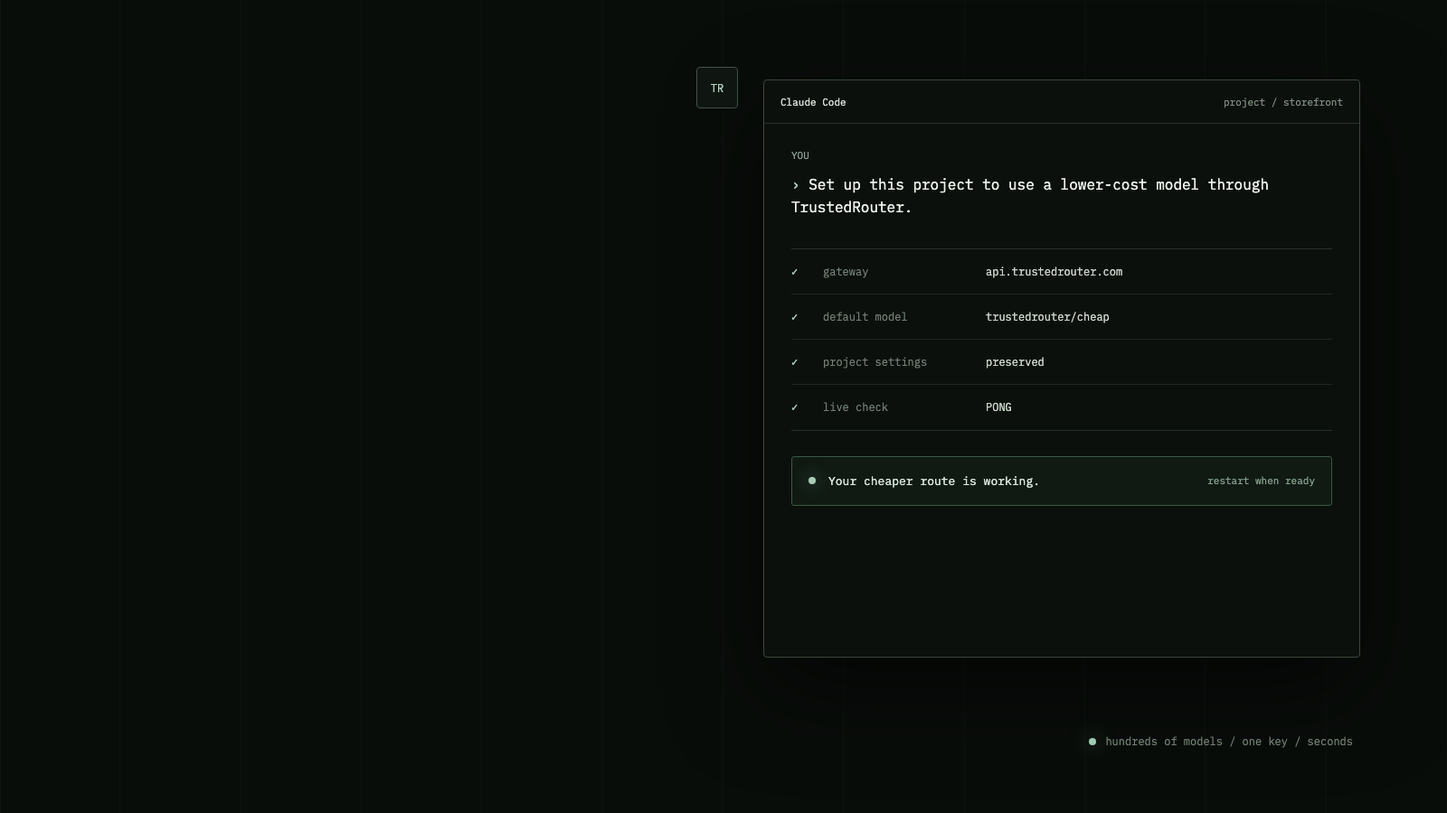
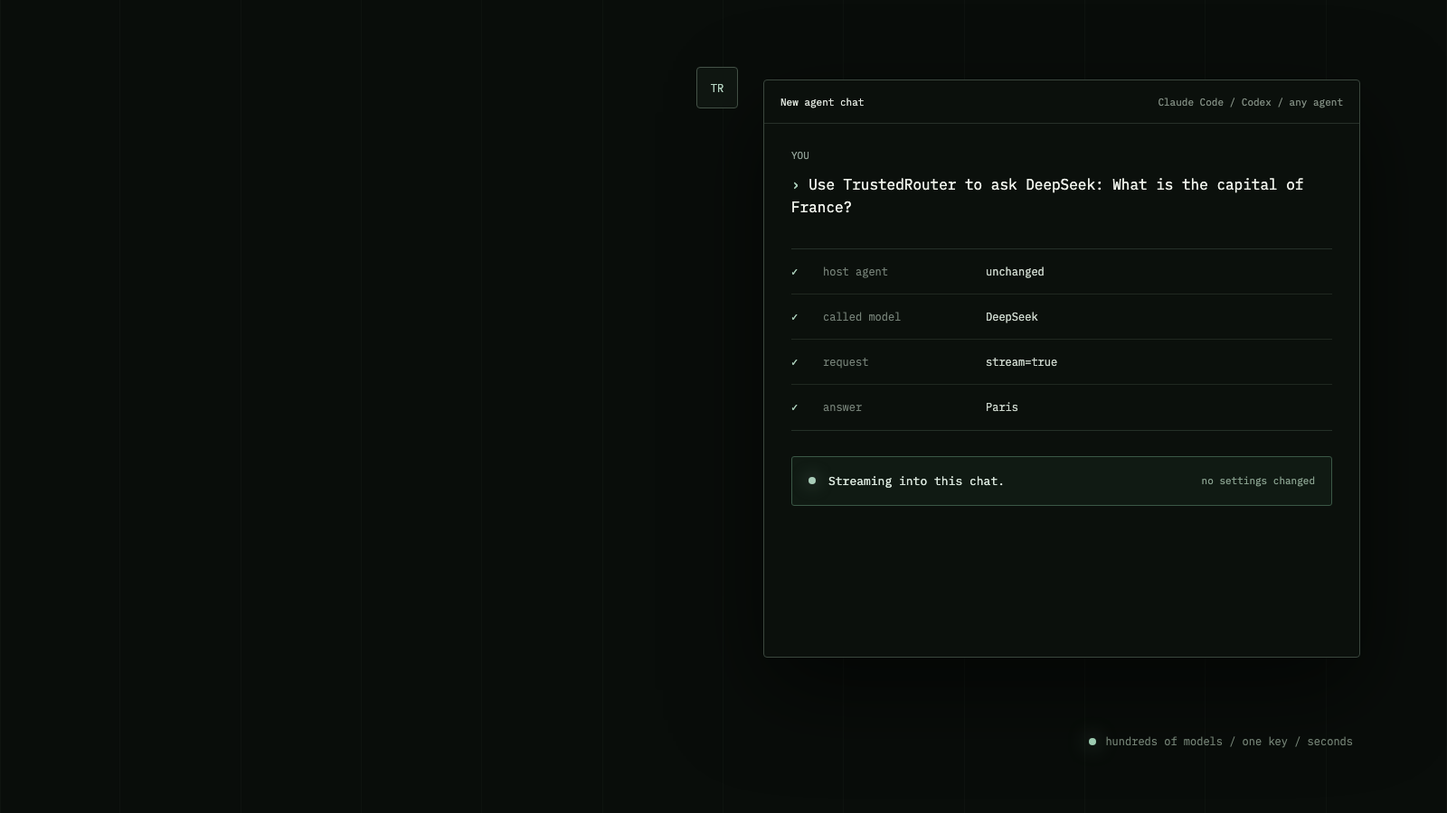
Keep agent onboarding chat native

diff --git a/src/trusted_router/templates/public/claude_code.html b/src/trusted_router/templates/public/claude_code.html
@@ -11,7 +11,7 @@
     <div class="cc-hero-copy">
       <div class="kicker">For vibe coders</div>
       <h1 id="cc-hero-title">Cut your Claude Code token bill in 10 seconds.</h1>
-      <p class="cc-hero-lead">Paste one message. Claude Code connects your next session to lower-cost models through TrustedRouter. Keep the interface, tools, permissions, and workflow you already know.</p>
+      <p class="cc-hero-lead">Open a new Claude Code, Codex, or agent chat. Paste one complete message. Your agent calls a lower-cost model through TrustedRouter and streams the answer back into the same chat. Nothing is installed. No settings change.</p>
       <div class="hero-actions">
         <button class="btn primary cc-primary-cta" type="button" data-action="open-signin">Create my paste-ready key</button>
         <a class="btn ghost" href="#ten-second-flow">See the 10-second flow <span aria-hidden="true">&#8595;</span></a>
@@ -29,17 +29,17 @@
 
 {% block body %}
 <section class="cc-proof-band" aria-label="What stays the same">
-  <div><strong>Keep Claude Code</strong><span>Same terminal, tools, permissions, and project context.</span></div>
-  <div><strong>Choose the model</strong><span>Use a cheap route for routine work and a smarter route when it matters.</span></div>
+  <div><strong>Keep your agent</strong><span>Same chat, tools, permissions, model, and project context.</span></div>
+  <div><strong>Delegate one task</strong><span>Call another model without replacing or reconfiguring your agent.</span></div>
+  <div><strong>Watch it stream</strong><span>The answer appears in your chat as the model generates it.</span></div>
   <div><strong>See exact cost</strong><span>Every completed request records integer-priced usage metadata.</span></div>
-  <div><strong>Keep content private</strong><span>No prompt or output logs, always.</span></div>
 </section>
 
 <section class="cc-section cc-flow" id="ten-second-flow" aria-labelledby="cc-flow-title">
   <div class="cc-section-heading">
     <span class="eyebrow">One message</span>
-    <h2 id="cc-flow-title">Claude Code does the setup.</h2>
-    <p>The old way starts with docs, environment variables, and a model catalog. This starts with one instruction your agent can execute.</p>
+    <h2 id="cc-flow-title">Your agent makes the call.</h2>
+    <p>No environment variables, settings files, installation, or restart. The pasted message asks your existing agent to make one streamed TrustedRouter request.</p>
   </div>
   <ol class="cc-steps">
     <li>
@@ -48,11 +48,11 @@
     </li>
     <li>
       <span class="cc-step-number">02</span>
-      <div><h3>Copy one complete message</h3><p>The real message contains your full key, gateway URL, low-cost model, safety instructions, and smoke test.</p></div>
+      <div><h3>Open a new agent chat</h3><p>Use Claude Code, Codex, or the agent you already prefer. Its model and settings stay exactly as they are.</p></div>
     </li>
     <li>
       <span class="cc-step-number">03</span>
-      <div><h3>Paste, then restart</h3><p>Claude Code prepares project-local settings, verifies the route, and tells you when your cheaper next session is ready.</p></div>
+      <div><h3>Paste and watch it stream</h3><p>Your agent calls DeepSeek through TrustedRouter and writes the answer into the same chat as each text delta arrives.</p></div>
     </li>
   </ol>
 </section>
@@ -62,24 +62,24 @@
     <span class="eyebrow">What you paste</span>
     <h2 id="cc-paste-title">No placeholders. No scavenger hunt.</h2>
     <p>After signup, TrustedRouter builds this message with your complete key already inside it. You copy the whole thing once.</p>
-    <p>Claude Code uses its documented LLM gateway settings. It preserves existing project settings, keeps the key out of committed files, and verifies the new route before asking you to restart.</p>
+    <p>This is a request, not a configuration prompt. It explicitly tells your agent to leave its model, provider, settings, and project files alone, make one call with <code>stream=true</code>, and show the result in the chat as it arrives.</p>
     <div class="hero-actions">
       <button class="btn primary cc-primary-cta" type="button" data-action="open-signin">Create my paste-ready key</button>
-      <a class="btn ghost" href="https://docs.anthropic.com/en/docs/claude-code/llm-gateway" target="_blank" rel="noopener">Anthropic gateway docs <span aria-hidden="true">&#8599;</span></a>
+      <a class="btn ghost" href="/models">Browse models <span aria-hidden="true">&#8594;</span></a>
     </div>
   </div>
   <div class="cc-prompt-tool" aria-label="Preview of the paste-ready Claude Code message">
-    <div class="cc-prompt-head"><span>CLAUDE CODE</span><span>ONE PASTE SETUP</span></div>
+    <div class="cc-prompt-head"><span>ANY AGENT</span><span>ONE PASTE REQUEST</span></div>
     <div class="cc-prompt-body">
-      <p>Set up this project so my next Claude Code session uses TrustedRouter with a lower-cost default model.</p>
+      <p>Please use TrustedRouter to ask DeepSeek: "What is the capital of France?"</p>
       <dl>
-        <div><dt>Gateway</dt><dd>api.trustedrouter.com</dd></div>
-        <div><dt>Main model</dt><dd>trustedrouter/cheap</dd></div>
-        <div><dt>Fast model</dt><dd>trustedrouter/cheap</dd></div>
+        <div><dt>Host agent</dt><dd>unchanged</dd></div>
+        <div><dt>Called model</dt><dd>DeepSeek</dd></div>
+        <div><dt>Response</dt><dd>stream=true</dd></div>
         <div><dt>API key</dt><dd><span class="cc-key-inserted">your complete key is inserted</span></dd></div>
       </dl>
-      <p class="cc-prompt-command"><span aria-hidden="true">&#8250;</span> Preserve settings. Keep secrets out of git. Run PONG. Tell me when to restart.</p>
-      <div class="cc-prompt-result"><span class="cc-live-dot" aria-hidden="true"></span><strong>READY</strong><span>Cheaper route verified</span></div>
+      <p class="cc-prompt-command"><span aria-hidden="true">&#8250;</span> Do not change my settings. Stream the answer into this chat.</p>
+      <div class="cc-prompt-result"><span class="cc-live-dot" aria-hidden="true"></span><strong>STREAMING</strong><span>Paris</span></div>
     </div>
   </div>
 </section>
@@ -88,7 +88,7 @@
   <div class="cc-section-heading">
     <span class="eyebrow">Get a superpower</span>
     <h2 id="cc-model-title">Every model. In seconds.</h2>
-    <p>One key can route work across hundreds of open and frontier models. A routine rename and a hard architecture review do not need the same model. Change one model name, not your setup.</p>
+    <p>One key can call hundreds of open and frontier models from the agent chat you already use. A routine rename and a hard architecture review do not need the same model. Name a different model in your next request, not in your agent settings.</p>
   </div>
   <div class="cc-route-list" role="list">
     <a href="/models/trustedrouter/cheap" role="listitem"><code>trustedrouter/cheap</code><span>Low-cost default for routine coding turns.</span><strong>START HERE</strong></a>
@@ -102,20 +102,20 @@
   <div class="cc-moment-mark" aria-hidden="true">10s</div>
   <div>
     <span class="eyebrow">The whole product moment</span>
-    <h2 id="cc-moment-title">Paste. Watch it connect. Smile.</h2>
-    <p>We watched a developer do exactly this. One message went into Claude Code, a cheaper model answered through the same workflow, and the setup disappeared as a problem. That reaction is the page.</p>
+    <h2 id="cc-moment-title">Paste. Watch the answer stream. Smile.</h2>
+    <p>We watched a developer do exactly this. One message went into an agent chat, a cheaper model answered inside that same chat, and setup disappeared as a problem. That reaction is the page.</p>
   </div>
 </section>
 
 <section class="cc-final" aria-label="Create a paste-ready TrustedRouter key">
   <div>
-    <span class="eyebrow">Your next Claude Code session</span>
-    <h2>Spend less on routine work.</h2>
-    <p>One complete message. One restart. Hundreds of models when you need them.</p>
+    <span class="eyebrow">Your next agent chat</span>
+    <h2>Delegate the expensive part.</h2>
+    <p>One complete message. No restart. Hundreds of models when you need them.</p>
   </div>
   <div class="cc-final-action">
     <button class="btn primary cc-primary-cta" type="button" data-action="open-signin">Create my paste-ready key</button>
-    <span>No subscription. Remove the project settings whenever you want.</span>
+    <span>No installation. No settings changed.</span>
   </div>
 </section>
 {% endblock %}

diff --git a/tests/browser/dashboard.spec.js b/tests/browser/dashboard.spec.js
@@ -178,11 +178,12 @@ test("new API key quickstart stays inside its reveal panel", async ({ page }) =>
                     <div class="panel-body">
                       <div class="signup-reveal console-key-reveal">
                         <section class="agent-quickstart">
-                          <h3>Paste this whole message into your agent or Claude Code to try it out right now:</h3>
+                          <h3>Open a new Claude Code, Codex, or agent chat. Then paste this whole message:</h3>
                           <div class="agent-message-row">
                             <div class="agent-message" id="layout-agent-message" data-copy-lines>
-                            <span class="agent-prompt-line">Set up this project so my next Claude Code session uses TrustedRouter with a lower-cost default model.</span>
-                            <span class="agent-prompt-line">Use ANTHROPIC_BASE_URL=https://api.trustedrouter.com and ANTHROPIC_MODEL=trustedrouter/cheap. Preserve existing settings and keep the key out of git.</span>
+                            <span class="agent-prompt-line">This message is designed to be pasted into a new Claude Code, Codex, or other agent chat.</span>
+                            <span class="agent-prompt-line">Please use TrustedRouter.com using the following key to ask DeepSeek a question.</span>
+                            <span class="agent-prompt-line">Make the request with streaming enabled (stream=true). Show each text delta in this chat as it arrives. Do not change this agent's settings.</span>
                             <span class="agent-prompt-line">TrustedRouter API key: sk-tr-v1-layout-regression-key</span>
                             </div>
                             <button class="btn secret-copy-btn" type="button" data-copy-secret="layout-agent-message" aria-label="Copy complete agent message">Copy</button>
@@ -204,7 +205,8 @@ test("new API key quickstart stays inside its reveal panel", async ({ page }) =>
   const heading = reveal.locator(".agent-quickstart h3");
   const message = reveal.locator(".agent-message");
   await expect(heading).toBeVisible();
-  await expect(message).toContainText("ANTHROPIC_MODEL=trustedrouter/cheap");
+  await expect(message).toContainText("stream=true");
+  await expect(message).toContainText("Do not change this agent's settings");
 
   const assertContained = async () => {
     const layout = await reveal.evaluate((element) => {
@@ -239,12 +241,14 @@ test("new API key quickstart stays inside its reveal panel", async ({ page }) =>
   await expect(copyButton).toBeVisible();
   await copyButton.click();
   const copiedAgentMessage = await page.evaluate(() => navigator.clipboard.readText());
-  expect(copiedAgentMessage).toContain("ANTHROPIC_BASE_URL=https://api.trustedrouter.com");
-  expect(copiedAgentMessage).toContain("ANTHROPIC_MODEL=trustedrouter/cheap");
+  expect(copiedAgentMessage).toContain("new Claude Code, Codex, or other agent chat");
+  expect(copiedAgentMessage).toContain("stream=true");
+  expect(copiedAgentMessage).toContain("Show each text delta in this chat as it arrives");
+  expect(copiedAgentMessage).not.toContain("ANTHROPIC_BASE_URL");
   expect(copiedAgentMessage).toContain("sk-tr-v1-layout-regression-key");
 });
 
-test("first-call activation runs live request and copies Claude Code setup", async ({ page }) => {
+test("first-call activation runs live request and copies agent chat prompt", async ({ page }) => {
   const apiKey = "sk-tr-v1-browser-activation-key";
   const analytics = [];
   await page.addInitScript(() => {
@@ -304,7 +308,7 @@ test("first-call activation runs live request and copies Claude Code setup", asy
               <div class="activation-call-error" data-call-error hidden><strong data-call-error-title></strong><p data-call-error-message></p><a data-call-error-action hidden></a></div>
               <div class="activation-call-result" data-call-result hidden><div class="activation-result-head"><div><span class="activation-success-mark">&#10003;</span><div><strong>Production request passed</strong><p>Your key is ready.</p></div></div><code data-result-output></code></div><dl class="activation-result-grid"><div><dt>Model</dt><dd data-result-model></dd></div><div><dt>Provider</dt><dd data-result-provider></dd></div><div><dt>Latency</dt><dd data-result-latency></dd></div><div><dt>Exact cost</dt><dd data-result-cost></dd></div></dl><div data-success-actions></div></div>
             </div></section>
-            <section class="panel activation-setup-panel"><div class="panel-body"><div class="activation-tabs" role="tablist"><button class="activation-tab" role="tab" aria-selected="true" data-setup-tab="setup-agent">Claude Code / Codex</button><button class="activation-tab" role="tab" aria-selected="false" data-setup-tab="setup-python">Python</button></div><div class="activation-code-panel" id="setup-agent" data-setup-panel><div class="activation-code-head"><strong>Paste this whole message</strong><button class="btn" data-copy-template-target="welcome-agent-message" data-secret-source="welcome-api-key">Copy prompt</button></div><pre id="welcome-agent-message" data-copy-lines><span>Please use TrustedRouter.com to ask DeepSeek a question.</span><span>${apiKey}</span></pre></div><div class="activation-code-panel" id="setup-python" data-setup-panel hidden><pre>Python setup</pre></div></div></section>
+            <section class="panel activation-setup-panel"><div class="panel-body"><div class="activation-tabs" role="tablist"><button class="activation-tab" role="tab" aria-selected="true" data-setup-tab="setup-agent">Claude Code / Codex / agent</button><button class="activation-tab" role="tab" aria-selected="false" data-setup-tab="setup-python">Python</button></div><div class="activation-code-panel" id="setup-agent" data-setup-panel><div class="activation-code-head"><strong>Paste into a new agent chat</strong><button class="btn" data-copy-template-target="welcome-agent-message" data-secret-source="welcome-api-key">Copy prompt</button></div><pre id="welcome-agent-message" data-copy-lines><span>This message is designed to be pasted into a new Claude Code, Codex, or other agent chat.</span><span>Please use TrustedRouter.com to ask DeepSeek a question.</span><span>Make the request with streaming enabled (stream=true). Show each text delta in this chat as it arrives. Do not change this agent's settings.</span><span>TrustedRouter API key: ${apiKey}</span></pre></div><div class="activation-code-panel" id="setup-python" data-setup-panel hidden><pre>Python setup</pre></div></div></section>
           </div>
         </div></main></body></html>`,
     });
@@ -328,7 +332,7 @@ test("first-call activation runs live request and copies Claude Code setup", asy
 
   await page.getByRole("button", { name: "Copy prompt" }).click();
   await expect.poll(() => page.evaluate(() => navigator.clipboard.readText())).toBe(
-    `Please use TrustedRouter.com to ask DeepSeek a question.\n\n${apiKey}`,
+    `This message is designed to be pasted into a new Claude Code, Codex, or other agent chat.\n\nPlease use TrustedRouter.com to ask DeepSeek a question.\n\nMake the request with streaming enabled (stream=true). Show each text delta in this chat as it arrives. Do not change this agent's settings.\n\nTrustedRouter API key: ${apiKey}`,
   );
   await page.getByRole("tab", { name: "Python" }).click();
   await expect(page.locator("#setup-python")).toBeVisible();

diff --git a/docs/marketing/claude-code-hero.html b/docs/marketing/claude-code-hero.html
@@ -204,22 +204,22 @@
   </div>
   <div class="brand-mark">TR</div>
   <div class="og-copy">
-    <span>TrustedRouter for Claude Code</span>
+    <span>TrustedRouter for your favorite agent</span>
     <h1>Cut your token bill in 10 seconds.</h1>
-    <p>One complete message connects your next session to hundreds of lower-cost models.</p>
+    <p>Paste once. Your agent calls another model and streams the answer back into the same chat.</p>
   </div>
   <div class="terminal">
-    <div class="terminal-head"><strong>Claude Code</strong><span>project / storefront</span></div>
+    <div class="terminal-head"><strong>New agent chat</strong><span>Claude Code / Codex / any agent</span></div>
     <div class="terminal-body">
       <div class="prompt-label">YOU</div>
-      <p class="prompt"><span class="cursor">&#8250;</span> Set up this project to use a lower-cost model through TrustedRouter.</p>
+      <p class="prompt"><span class="cursor">&#8250;</span> Use TrustedRouter to ask DeepSeek: What is the capital of France?</p>
       <div class="activity">
-        <div class="row"><span class="check">&#10003;</span><span class="label">gateway</span><span class="value">api.trustedrouter.com</span></div>
-        <div class="row"><span class="check">&#10003;</span><span class="label">default model</span><span class="value">trustedrouter/cheap</span></div>
-        <div class="row"><span class="check">&#10003;</span><span class="label">project settings</span><span class="value">preserved</span></div>
-        <div class="row"><span class="check">&#10003;</span><span class="label">live check</span><span class="value">PONG</span></div>
+        <div class="row"><span class="check">&#10003;</span><span class="label">host agent</span><span class="value">unchanged</span></div>
+        <div class="row"><span class="check">&#10003;</span><span class="label">called model</span><span class="value">DeepSeek</span></div>
+        <div class="row"><span class="check">&#10003;</span><span class="label">request</span><span class="value">stream=true</span></div>
+        <div class="row"><span class="check">&#10003;</span><span class="label">answer</span><span class="value">Paris</span></div>
       </div>
-      <div class="ready"><i></i><strong>Your cheaper route is working.</strong><span>restart when ready</span></div>
+      <div class="ready"><i></i><strong>Streaming into this chat.</strong><span>no settings changed</span></div>
     </div>
   </div>
   <div class="signal"><i></i><span>hundreds of models / one key / seconds</span></div>

diff --git a/src/trusted_router/templates/console/welcome.html b/src/trusted_router/templates/console/welcome.html
@@ -1,5 +1,5 @@
 {% extends "console/_layout.html" %}
-{% from "console/_api_key_reveal.html" import api_key_reveal, claude_code_prompt %}
+{% from "console/_api_key_reveal.html" import agent_chat_prompt, api_key_reveal %}
 {% block body %}
 {% if revealed_key %}
 <div
@@ -96,15 +96,15 @@
     </div>
     <div class="panel-body">
       <div class="activation-tabs" role="tablist" aria-label="Setup method">
-        <button class="activation-tab" id="setup-agent-tab" type="button" role="tab" aria-selected="true" aria-controls="setup-agent" data-setup-tab="setup-agent">Claude Code / Codex</button>
+        <button class="activation-tab" id="setup-agent-tab" type="button" role="tab" aria-selected="true" aria-controls="setup-agent" data-setup-tab="setup-agent">Claude Code / Codex / agent</button>
         <button class="activation-tab" id="setup-python-tab" type="button" role="tab" aria-selected="false" aria-controls="setup-python" tabindex="-1" data-setup-tab="setup-python">Python</button>
         <button class="activation-tab" id="setup-js-tab" type="button" role="tab" aria-selected="false" aria-controls="setup-js" tabindex="-1" data-setup-tab="setup-js">JavaScript</button>
         <button class="activation-tab" id="setup-curl-tab" type="button" role="tab" aria-selected="false" aria-controls="setup-curl" tabindex="-1" data-setup-tab="setup-curl">curl</button>
       </div>
 
       <div class="activation-code-panel" id="setup-agent" role="tabpanel" aria-labelledby="setup-agent-tab" data-setup-panel>
-        <div class="activation-code-head"><strong>Paste this whole message into Claude Code or Codex</strong><button class="btn" type="button" data-copy-template-target="welcome-agent-message" data-secret-source="welcome-api-key" aria-describedby="welcome-agent-copy-status">Copy prompt</button></div>
-        <pre id="welcome-agent-message" data-copy-lines>{{ claude_code_prompt(revealed_key) }}</pre>
+        <div class="activation-code-head"><strong>Paste into a new Claude Code, Codex, or agent chat</strong><button class="btn" type="button" data-copy-template-target="welcome-agent-message" data-secret-source="welcome-api-key" aria-describedby="welcome-agent-copy-status">Copy prompt</button></div>
+        <pre id="welcome-agent-message" data-copy-lines>{{ agent_chat_prompt(revealed_key) }}</pre>
         <p class="copy-status" id="welcome-agent-copy-status" role="status" aria-live="polite"></p>
       </div>
 

diff --git a/src/trusted_router/templates/console/_api_key_reveal.html b/src/trusted_router/templates/console/_api_key_reveal.html
@@ -1,6 +1,7 @@
-{% macro claude_code_prompt(raw_key) -%}
-<span class="agent-prompt-line">Set up this project so my next Claude Code session uses TrustedRouter with a lower-cost default model. Keep this current session working while you prepare the change.</span>
-<span class="agent-prompt-line">Use ANTHROPIC_BASE_URL=https://api.trustedrouter.com, ANTHROPIC_AUTH_TOKEN with the key below, ANTHROPIC_MODEL=trustedrouter/cheap, and ANTHROPIC_SMALL_FAST_MODEL=trustedrouter/cheap. Put the configuration in .claude/settings.local.json. If that file already exists, preserve every other setting. Verify the file is ignored by git, run a tiny PONG request through TrustedRouter, and tell me when to restart Claude Code. Do not print, commit, or copy the key anywhere else.</span>
+{% macro agent_chat_prompt(raw_key) -%}
+<span class="agent-prompt-line">This message is designed to be pasted into a new Claude Code, Codex, or other agent chat.</span>
+<span class="agent-prompt-line">Please use TrustedRouter.com using the following key to ask DeepSeek the following question: "What is the capital of France?"</span>
+<span class="agent-prompt-line">Make the request through https://api.trustedrouter.com/v1 with streaming enabled (stream=true). Show each text delta in this chat as it arrives instead of buffering the full answer. Do not change this agent's model, provider, settings, or project files. Do not save, print, commit, or reveal the key.</span>
 <span class="agent-prompt-line">TrustedRouter API key: {{ raw_key }}</span>
 {%- endmacro %}
 
@@ -26,10 +27,10 @@
 
   {% if show_agent %}
   <section class="agent-quickstart" aria-labelledby="{{ id_prefix }}-agent-heading">
-    <h3 id="{{ id_prefix }}-agent-heading">Paste this whole message into your agent or Claude Code to try it out right now:</h3>
+    <h3 id="{{ id_prefix }}-agent-heading">Open a new Claude Code, Codex, or agent chat. Then paste this whole message:</h3>
     <div class="agent-message-row">
       <div class="agent-message" id="{{ id_prefix }}-agent-message" data-copy-lines>
-        {{ claude_code_prompt(raw_key) }}
+        {{ agent_chat_prompt(raw_key) }}
       </div>
       <button
         class="btn secret-copy-btn"

diff --git a/tests/browser/claude_code_landing.spec.js b/tests/browser/claude_code_landing.spec.js
@@ -32,6 +32,10 @@ test("Claude Code landing turns the ten-second promise into the real signup flow
   await expect(
     page.getByRole("heading", { name: "Every model. In seconds." }),
   ).toBeVisible();
+  await expect(page.getByText("No installation. No settings changed.")).toBeVisible();
+  await expect(page.locator("body")).toContainText("stream=true");
+  await expect(page.locator("body")).not.toContainText("settings.local.json");
+  await expect(page.locator("body")).not.toContainText("restart Claude Code");
   await expect(page.getByText("your complete key is inserted", { exact: true })).toBeVisible();
   await expect(page.locator("body")).not.toContainText("YOUR_TRUSTEDROUTER_API_KEY");
   await expect(page.locator(".cc-primary-cta")).toHaveCount(3);

diff --git a/src/trusted_router/dashboard.py b/src/trusted_router/dashboard.py
@@ -1278,22 +1278,22 @@ PUBLIC_PAGES: dict[str, PublicPage] = {
         og_card="claude-code.png",
         title="Cut Your Claude Code Token Bill in 10 Seconds",
         description=(
-            "Paste one complete message into Claude Code. TrustedRouter connects "
-            "your next session to hundreds of lower-cost models without changing "
-            "the interface, tools, or workflow you already use."
+            "Paste one complete message into a new Claude Code, Codex, or agent chat. "
+            "Your agent calls a lower-cost model and streams the answer back without "
+            "changing its model, settings, tools, or workflow."
         ),
         faq_items=(
             (
                 "Does this replace Claude Code?",
-                "No. You keep Claude Code, its tools, permissions, and project context. The setup changes the model gateway and default model used by your next project session.",
+                "No. Claude Code, Codex, or your preferred agent remains the host. The pasted message asks it to make one streaming API call through TrustedRouter. It does not replace the host model or change the agent's settings.",
             ),
             (
                 "Does the change affect my current session?",
-                "The pasted message prepares project-local settings and runs a small verification call. Restart Claude Code when it tells you the setup is ready. Your current session stays available while it works.",
+                "There is no configuration change. Open a new agent chat, paste the message, and watch the TrustedRouter response stream into that chat. No files are edited and no restart is required.",
             ),
             (
                 "Which model does the quick setup use?",
-                "It starts with trustedrouter/cheap, a low-cost paid route pool. You can replace it with trustedrouter/fast, trustedrouter/zdr, a named model, or any other compatible route later.",
+                "The first message asks DeepSeek a tiny question so you can see the flow work. For later requests, tell the agent to call trustedrouter/cheap, trustedrouter/fast, trustedrouter/zdr, or any named model in the catalog.",
             ),
             (
                 "Will every task cost less?",
@@ -1305,7 +1305,7 @@ PUBLIC_PAGES: dict[str, PublicPage] = {
             ),
             (
                 "Can I switch back?",
-                "Yes. Remove the TrustedRouter environment entries from the project-local Claude Code settings file, or ask Claude Code to revert the setup. Your global Claude account configuration is not overwritten.",
+                "There is nothing to switch back. Stop asking the agent to make TrustedRouter calls, close the chat, or revoke the one-time key. The agent's original model and configuration were never changed.",
             ),
         ),
     ),

diff --git a/tests/test_claude_code_landing.py b/tests/test_claude_code_landing.py
@@ -11,12 +11,13 @@ def test_claude_code_landing_is_a_single_action_funnel(client: TestClient) -> No
     assert response.status_code == 200
     assert "Cut your Claude Code token bill in 10 seconds." in response.text
     assert response.text.count("Create my paste-ready key") == 3
-    assert "Claude Code does the setup." in response.text
+    assert "Your agent makes the call." in response.text
     assert "No placeholders. No scavenger hunt." in response.text
     assert "your complete key is inserted" in response.text
+    assert "No installation. No settings changed." in response.text
+    assert "stream=true" in response.text
     assert "trustedrouter/cheap" in response.text
     assert "Every model. In seconds." in response.text
-    assert "No prompt or output logs, always." in response.text
     assert "Will every task cost less?" in response.text
     assert 'rel="canonical" href="https://trustedrouter.com/claude-code"' in response.text
     assert 'property="og:image" content="https://trustedrouter.com/static/og/claude-code.png"' in response.text
@@ -37,7 +38,7 @@ def test_claude_code_landing_is_indexed_and_vibe_alias_is_canonical(
     assert alias.headers["location"] == "/claude-code"
 
 
-def test_api_key_reveal_builds_a_complete_claude_code_setup_message(
+def test_api_key_reveal_builds_a_streaming_agent_chat_message_without_reconfiguration(
     client: TestClient,
 ) -> None:
     user = STORE.ensure_user("claude-code-landing@example.com")
@@ -55,8 +56,11 @@ def test_api_key_reveal_builds_a_complete_claude_code_setup_message(
     )
 
     assert response.status_code == 200
-    assert "ANTHROPIC_BASE_URL=https://api.trustedrouter.com" in response.text
-    assert "ANTHROPIC_MODEL=trustedrouter/cheap" in response.text
-    assert ".claude/settings.local.json" in response.text
-    assert "preserve every other setting" in response.text
-    assert "Verify the file is ignored by git" in response.text
+    assert "new Claude Code, Codex, or other agent chat" in response.text
+    assert "Please use TrustedRouter.com using the following key to ask DeepSeek" in response.text
+    assert "streaming enabled (stream=true)" in response.text
+    assert "Show each text delta in this chat as it arrives" in response.text
+    assert "Do not change this agent's model, provider, settings, or project files" in response.text
+    assert "ANTHROPIC_BASE_URL" not in response.text
+    assert ".claude/settings.local.json" not in response.text
+    assert "restart Claude Code" not in response.text

diff --git a/tests/test_oauth_and_console.py b/tests/test_oauth_and_console.py
@@ -965,7 +965,9 @@ def test_console_create_api_key_form_repeats_raw_key_in_agent_message(
     assert agent_message is not None
     assert match.group(0) in agent_message.group(0)
     assert "YOUR_TRUSTEDROUTER_API_KEY" not in agent_message.group(0)
-    assert "Paste this whole message into your agent or Claude Code" in resp.text
+    assert "Open a new Claude Code, Codex, or agent chat" in resp.text
+    assert "streaming enabled (stream=true)" in resp.text
+    assert "Do not change this agent's model, provider, settings, or project files" in resp.text
     assert "Copied to clipboard." not in resp.text
     workspace_id = next(iter(STORE.workspaces))
     keys = STORE.list_keys(workspace_id)
